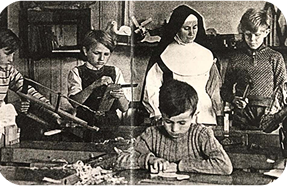
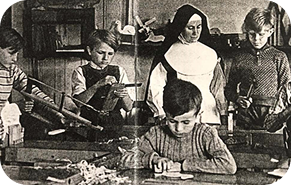
wd

diff --git a/skolensHistorie.html b/skolensHistorie.html
@@ -16,14 +16,12 @@
       <h1>Skolens Historie</h1>
 
       <article class="historieCard">
-<p class="arstal">1899</p>
-<div>
-  <img src="" alt="">
-  <p></p>
-</div>
-
+        <p class="arstal">1899</p>
+        <div>
+          <img src="./assets/img/historie/1899.webp" alt="" />
+          <p></p>
+        </div>
       </article>
-      
     </section>
   </body>
 </html>

diff --git a/assets/css/styles.css b/assets/css/styles.css
@@ -983,6 +983,9 @@ details[open] summary:after {
  /* Skolens historie slut --------------------------------------------------------*/
 
 
+ 
+
+
 /* vedtægter side start --------------------------------------------------------*/
 
 /* De forskellige vedtaegter */
